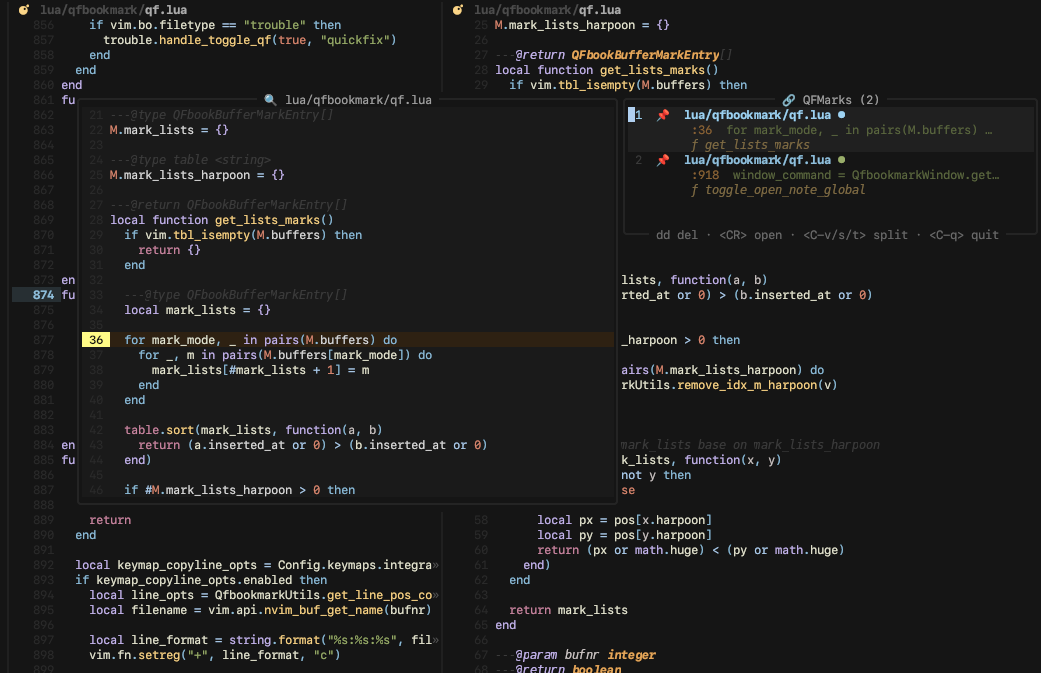
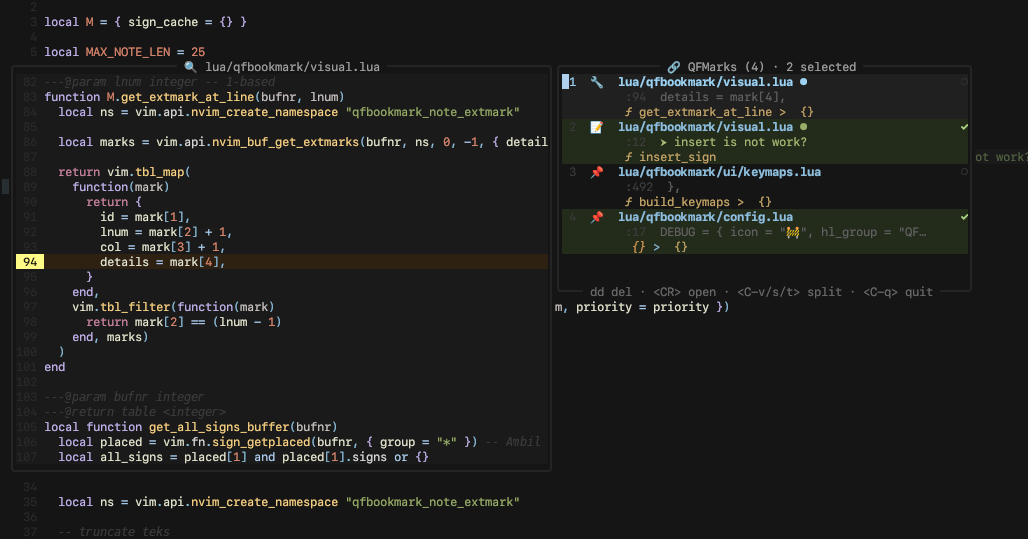
fix(readme): update image and add faq

diff --git a/README.md b/README.md
@@ -1,5 +1,9 @@
 # QFbookmark
 
+<p align="center">
+  <img src="./assets/tqfbookmark.svg" alt="qfbookmark" />
+</p>
+
 [**qfbookmark**](https://github.com/MadKuntilanak/qfbookmark) was built around my own coding workflow. I often found myself placing marks in different files and later forgetting the context around them especially which function, method, or code section the mark referred to. This plugin extends the idea of traditional marks by combining them with quickfix lists, notes, and contextual navigation, making it easier to revisit and organize important locations across a project.
 
 
@@ -22,12 +26,15 @@
 - Notes per project or globally (using external filetype definitions like org, norg, md, txt, etc.)
 - Quickfix integrations: works with trouble.nvim, grug-far.nvim, and fzf-lua
 
+## Showcasse
+
 ![qfbookmark](./assets/qfbookmark.png)
 
 ## Requirements
 
 - Neovim >= 0.10
 - [nvim-treesitter](https://github.com/nvim-treesitter/nvim-treesitter) (optional, for symbol context)
+- [fzf-lua](https://github.com/ibhagwan/fzf-lua) (optional)
 
 ## Installation
 
@@ -362,49 +369,19 @@ integrations = {
 Set `picker = "fzf-lua"` to use fzf-lua for fuzzy searching marks.
 
 
-## Why uses 4 mark types?
+## FAQ
 
+**Why 4 mark types instead of one?**
 
-[**qfbookmark**](https://github.com/MadKuntilanak/qfbookmark) uses a unified mark system with four visual types: MARK, FIX, DEBUG, and NOTE.
+The four types (MARK, FIX, DEBUG, NOTE) don't change how marks work internally — they exist purely for visual clarity. When you have many marks across multiple files, being able to tell at a glance "this is a debugging point" vs "this needs fixing" vs "this is just a reference" makes navigation significantly faster. Think of them as colored sticky notes.
 
-These types do not change how marks work internally.  
-They exist to improve readability when many marks are present in the same buffer or mark list.
+**Can I use only one type and ignore the rest?**
 
-When working with multiple marks, it can become difficult to quickly understand their purpose.  
-This design helps introduce visual intent so each mark is easier to recognize at a glance.
+Yes. All four types behave identically under the hood. You can map only `MARK` and never touch the others.
 
----
+**What's NOTE different from the others?**
 
-### 📌 MARK
-A general bookmark for navigation.
-
-Used as a simple reference point in code.
-
----
-
-### 🔧 FIX
-A visually emphasized mark for important or actionable points.
-
-Helps quickly identify areas that likely need attention or follow-up.
-
----
-
-### 🚧 DEBUG
-A temporary mark used during debugging sessions.
-
-Useful for tracking investigation points while working on runtime issues.  
-Typically removed after debugging is complete.
-
----
-
-### 📝 NOTE
-A contextual annotation for a line.
-
-Used to add explanations or additional context directly in code.
-
-Can also be useful alongside AI-assisted plugins, where notes provide extra context for understanding or generating suggestions.
-
-</details>
+NOTE is the only type that supports inline annotations,  you can attach text to it, which is also exposed to the mark popup and can be sent to AI plugins for context.
 
 
 ## License